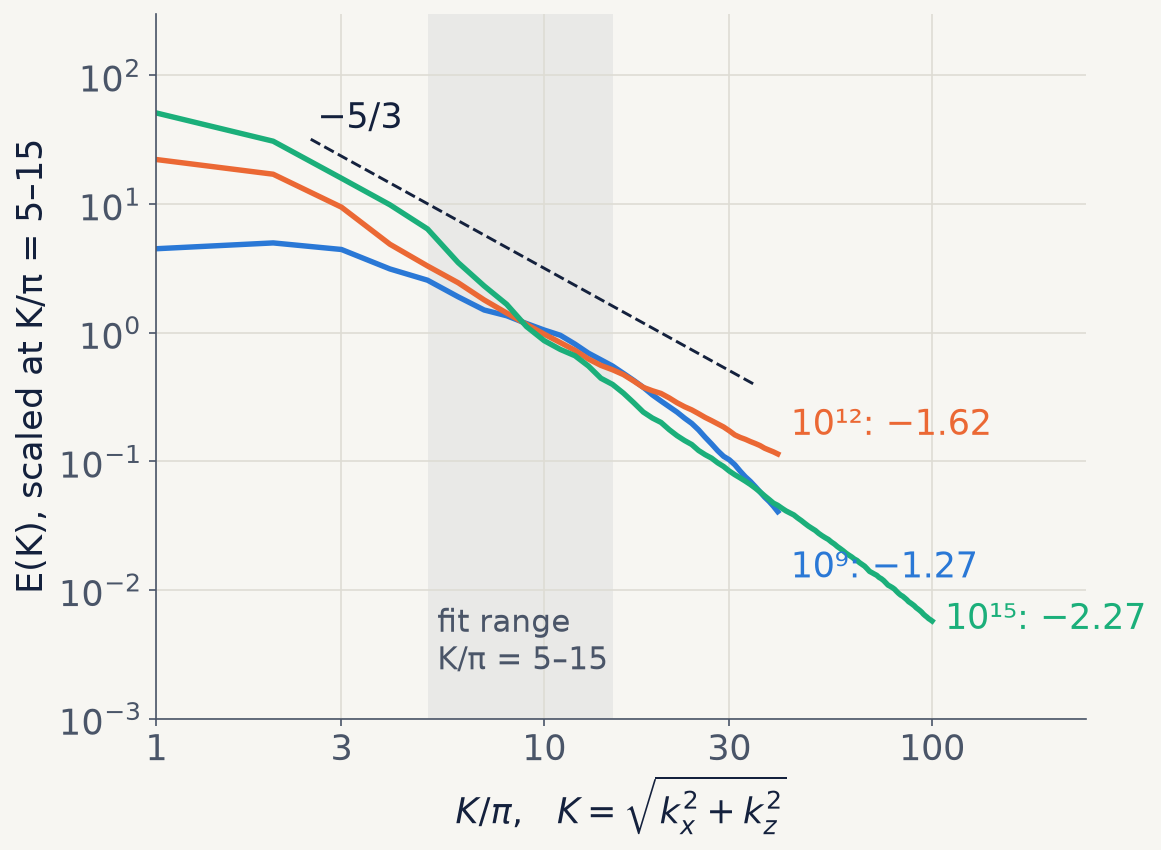
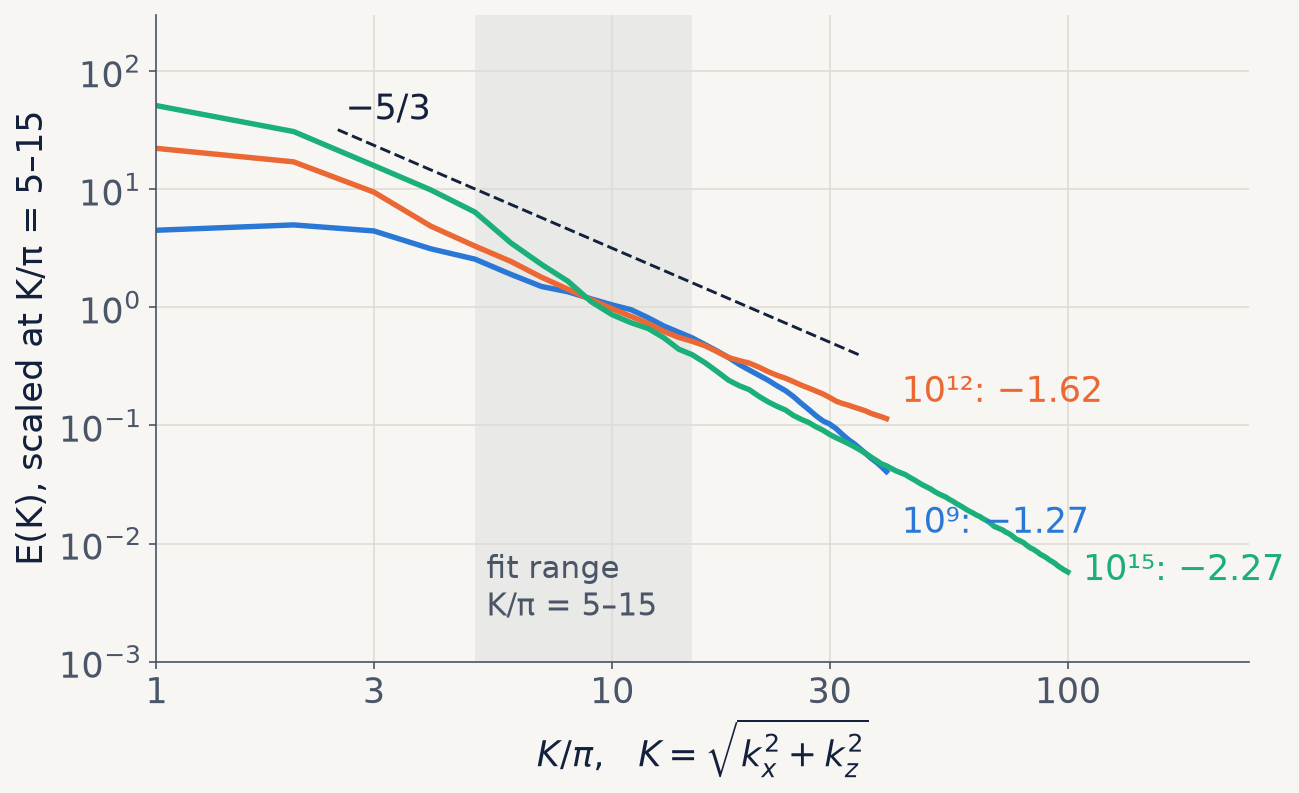
Deck figures: wider aspect for the new slide layout
Claude-Session: https://claude.ai/code/session_01JtE56N5UP9hCyapB7Ratd6

diff --git a/convection/figures/deck_figures.py b/convection/figures/deck_figures.py
@@ -38,7 +38,7 @@ def log_ticks(ax, xs=None, ys=None):
 
 def spec1d():
     """1D x-FFT, mean over rows and frames (same data and fit as FINAL_RESULTS section 1)."""
-    fig, a = plt.subplots(figsize=(8, 6.1))
+    fig, a = plt.subplots(figsize=(9.4, 5.6))
     floor = {"Ra1e9": 177, "Ra1e12": 873, "Ra1e15": 155}
     a.axvspan(10, 30, color=INK, alpha=0.06, lw=0)
     for t in TAGS:
@@ -61,7 +61,7 @@ def spec1d():
 
 def spec2d():
     """2D FFT shells (x FFT x z sine series), fluctuations only (mean profile removed)."""
-    fig, a = plt.subplots(figsize=(8, 6.1))
+    fig, a = plt.subplots(figsize=(9.4, 5.6))
     a.axvspan(5, 15, color=INK, alpha=0.06, lw=0)
     sl = {"Ra1e9": "−1.27", "Ra1e12": "−1.62", "Ra1e15": "−2.27"}
     vmax = {"Ra1e9": 40, "Ra1e12": 40, "Ra1e15": 100}
@@ -85,7 +85,7 @@ def spec2d():
 
 
 def upper():
-    fig, ax = plt.subplots(figsize=(8, 6.1))
+    fig, ax = plt.subplots(figsize=(9.4, 5.6))
     for t in TAGS:
         r = np.load(f"{CACHE}/analysis_2d_{t}.npy", allow_pickle=True).item()
         Em = r["E_mean"]; n = np.arange(1, len(Em) + 1)
@@ -107,7 +107,7 @@ def upper():
 def sound():
     f, kb, S = SW.k_omega_spectrum("Ra1e15", "cT")
     Sn = S / np.maximum(S.sum(1, keepdims=True), 1e-300)
-    fig, a = plt.subplots(figsize=(8, 6.1))
+    fig, a = plt.subplots(figsize=(9.4, 5.6))
     a.pcolormesh(kb, f[1:], np.log10(Sn[:, 1:].T * f[1:, None] + 1e-30), vmin=-5, vmax=-0.5,
                  shading="nearest", cmap="Blues", rasterized=True)
     zg = np.linspace(0, 1, 401); cs = np.sqrt(0.3 * (1 - 0.5 * zg) / (0.5 * 0.1))
